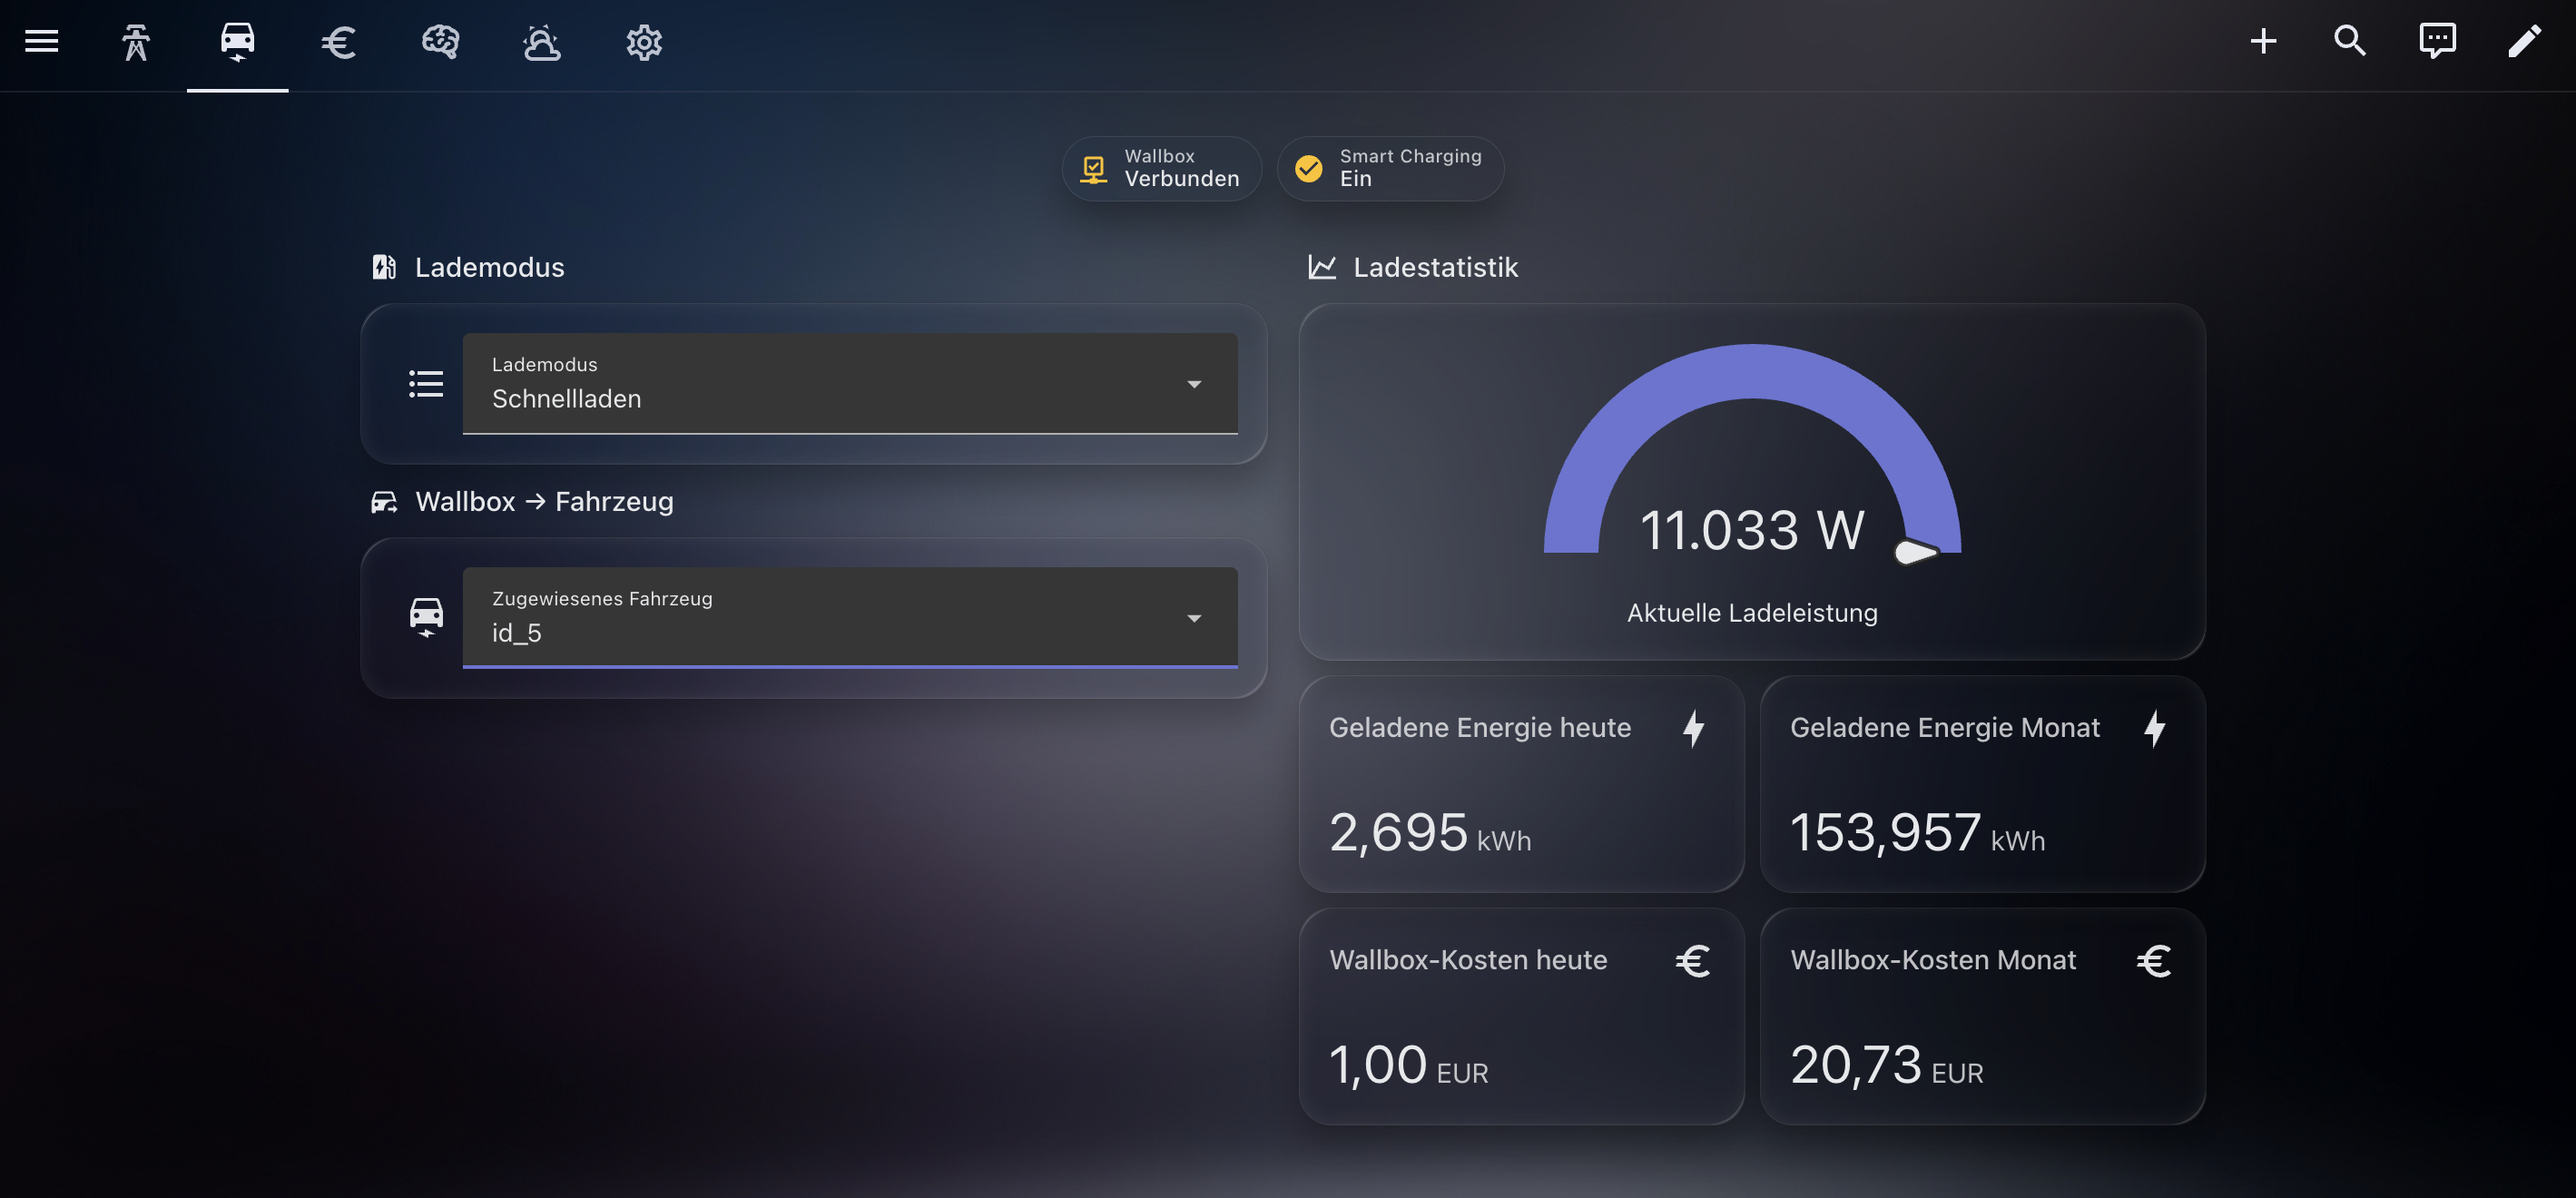
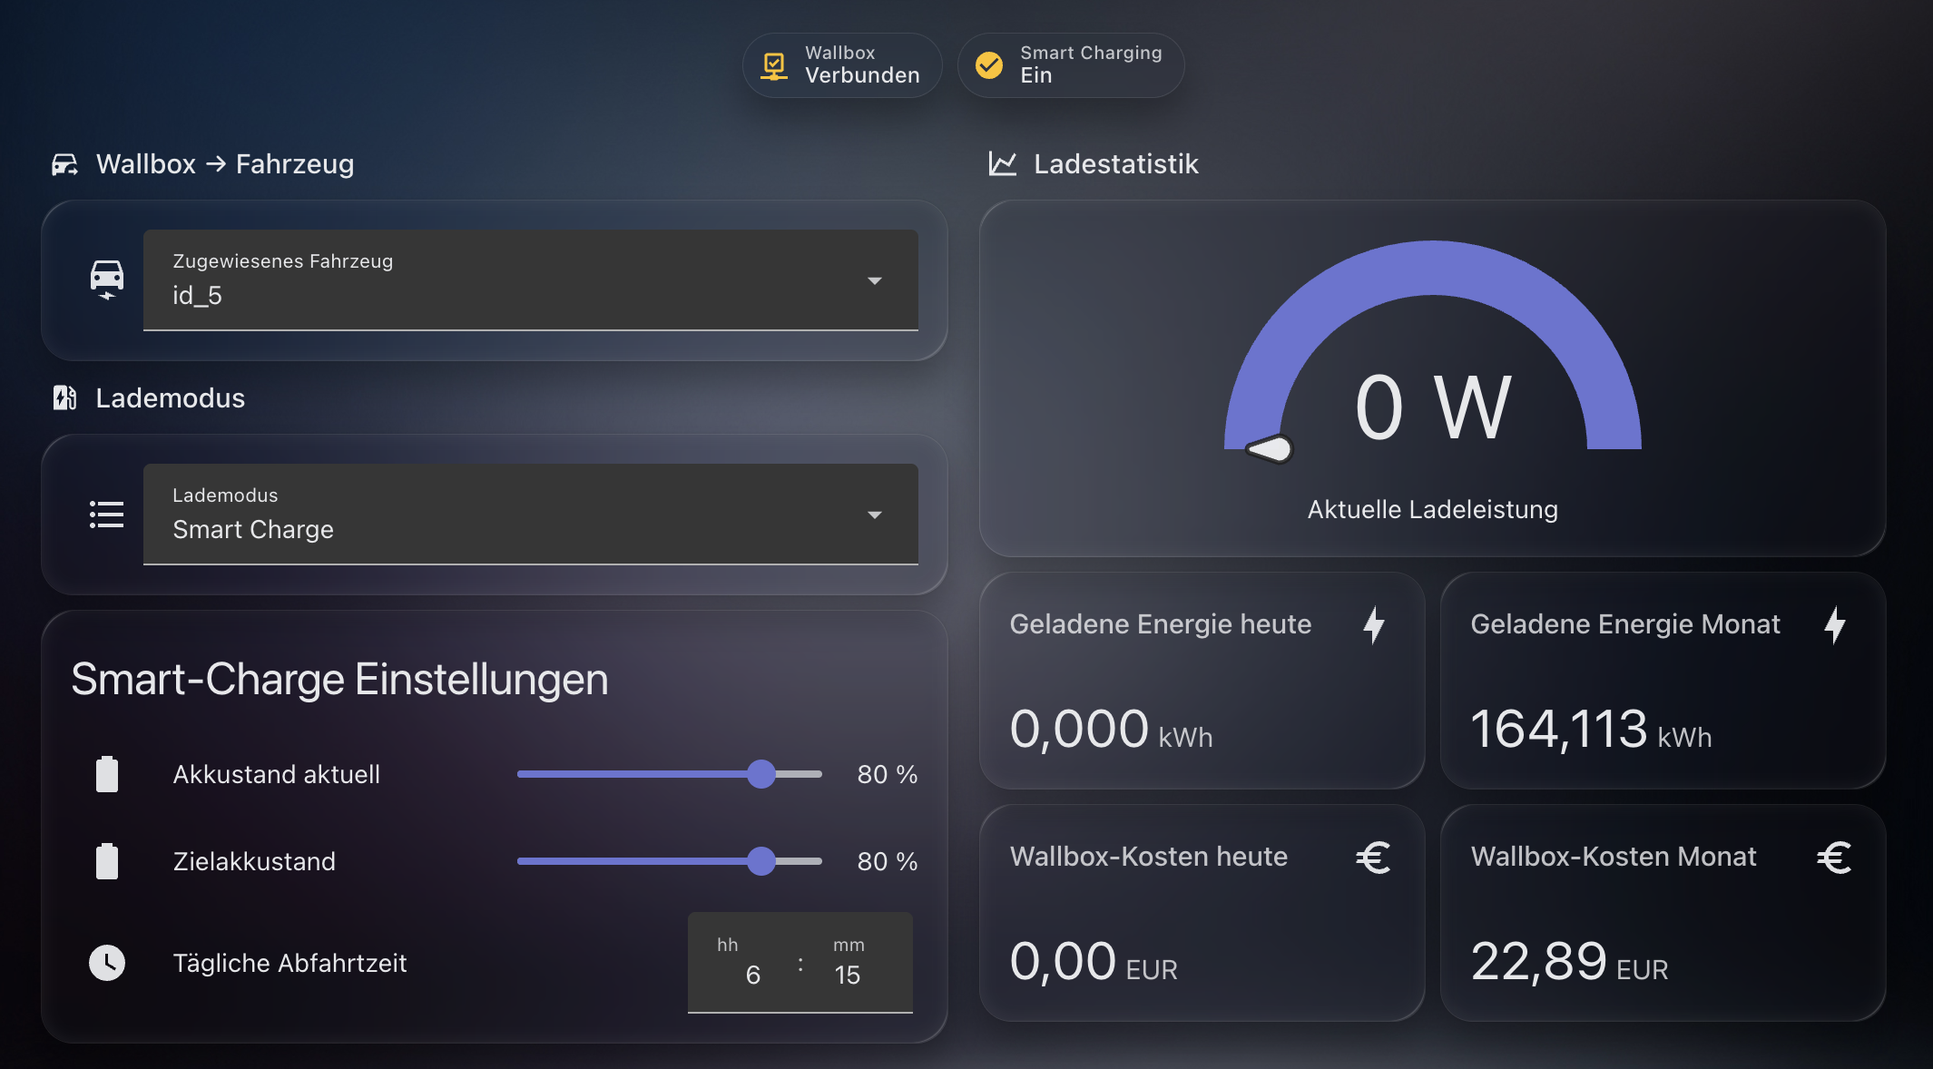
docs(dashboard): abstract vehicle view for multi-EV assignments
Der Fahrzeug-View im Repo-Dashboard und in der Showcase-Variante folgt
jetzt der Live-Struktur mit gestapeltem Wallbox-Assignment → Lademodus
→ Smart-Charge-Einstellungen. Vorher-Bug: die Smart-Charge-Card zeigte
auf `sensor.…_lademodus` (State uppercase `SMART_CHARGE`); der State-
Vergleich `smart_charge` (lowercase) traf nie. Neu: auf den Steuer-
Selector `select.…_lademodus` (lowercase) mit korrektem State.

Multi-EV: zwei Conditional-Card-Blöcke (Lademodus + Smart-Charge-
Einstellungen) pro EV. Placeholder:
- `WALLBOX` (Wallbox-Sub-Device-Slug: `wallbox` single, sonst Name-Slug)
- `EV_N_PREFIX` (Entity-Prefix des EV, z. B. `volkswagen_id_4`)
- `EV_N_SLUG` (Slug im Assignment-Selektor, aus `attributes.options`)

README-Tabelle aktualisiert; der Vehicle-Section-Absatz erklärt die
Verdopplung und wie man EV-Prefixe/-Slugs abliest. Der veraltete
`CAR_IDENTIFIER`-Placeholder entfällt.

Screenshot showcase-fahrzeug.png aktualisiert: zeigt die neue Struktur
mit Assignment-Select, Lademodus und Smart-Charge-Einstellungen.

diff --git a/dashboard/README.md b/dashboard/README.md
@@ -58,9 +58,11 @@ The view header shows four **badges**: EMS auto mode switch, self-sufficiency ra
 
 A focused view for controlling the EV charger:
 
-- Charging mode selector (Smart Charge / Quick Charge / Solar Charge)
-- Wallbox → vehicle assignment (since v0.1.63): which vehicle profile is currently bound to the wallbox. Options are the site's vehicles as lowercase name slugs. Placeholder `WALLBOX_IDENTIFIER` in the YAML resolves to `wallbox` on single-wallbox sites (the historical default) and to each wallbox's own slug on multi-wallbox sites — check *Settings → Devices & Services → 1KOMMA5°* on your install for the exact `select.SYSTEM_NAME_<wallbox>_assigned_vehicle` id.
-- Manual battery level input, target battery level and daily departure time (visible in Smart Charge mode only)
+- **Wallbox → vehicle assignment** (since v0.1.63) at the top of the section: which vehicle profile is currently bound to the wallbox. Options are the site's vehicles as lowercase name slugs. Placeholder `WALLBOX` in the YAML resolves to `wallbox` on single-wallbox sites (the historical default) and to each wallbox's own slug on multi-wallbox sites — check *Settings → Devices & Services → 1KOMMA5°* on your install for the exact `select.SYSTEM_NAME_<wallbox>_assigned_vehicle` id.
+- **Charging-mode selector** (Smart Charge / Quick Charge / Solar Charge) — one selector per EV, but only the one for the currently-assigned vehicle is shown. Conditional cards use the assignment selector's state to swap between EVs.
+- **Manual battery level, target battery level and daily departure time** — visible in Smart Charge mode only, again scoped to the currently-assigned vehicle.
+
+Duplicate the two conditional blocks (Lademodus + Smart-Charge-Einstellungen) once per vehicle, replacing `EV_N_PREFIX` with the vehicle's entity prefix (e.g. `volkswagen_id_4`, or the long `<owner>_<uuid>` slug for backend-only test profiles) and `EV_N_SLUG` with the option value that appears in the assignment selector's `attributes.options` list.
 
 ### Prices and costs
 
@@ -103,12 +105,16 @@ In every existing view the Showcase adds badges (e.g. AI status, cheap-now indic
 1. In Home Assistant go to **Settings → Dashboards → Add Dashboard** (or open an existing one in edit mode).
 2. Click the ⋮ menu → **Edit Dashboard** → **Raw configuration editor**.
 3. Paste the contents of [`dashboard.yaml`](dashboard.yaml) or [`dashboard-showcase.yaml`](dashboard-showcase.yaml).
-4. Replace the two placeholders throughout the YAML:
+4. Replace the placeholders throughout the YAML:
 
    | Placeholder | Replace with | Where to find it |
    |-------------|-------------|-----------------|
    | `SYSTEM_NAME` | Your system name prefix | **Settings → Devices & Services → 1KOMMA5°**, visible on any entity ID |
-   | `CAR_IDENTIFIER` | Your EV entity prefix | Same location, visible on EV charger entities (e.g. `volkswagen_id_4`) |
+   | `WALLBOX` | The wallbox sub-device slug | `wallbox` on single-wallbox sites; the wallbox-name slug on multi-wallbox sites (visible in `select.SYSTEM_NAME_<wallbox>_assigned_vehicle`) |
+   | `EV_1_PREFIX`, `EV_2_PREFIX`, … | Entity prefix per EV | Visible on the EV's own entities (`volkswagen_id_4`, or the long `<owner>_<uuid>` for backend test profiles) |
+   | `EV_1_SLUG`, `EV_2_SLUG`, … | Slug per EV in the assignment selector | Read `attributes.options` on `select.SYSTEM_NAME_<wallbox>_assigned_vehicle` (e.g. `id_5`, `dummy`) |
+
+   Duplicate the two conditional blocks (Lademodus + Smart-Charge-Einstellungen) once per EV. Sites with a single EV need only the `EV_1_*` block.
 
    If your 1KOMMA5° device is assigned to a Home Assistant *area*, HA may prefix new entity_ids with the area slug (e.g. `garage_SYSTEM_NAME_…`). Use whatever your install actually generates: Settings → Devices & Services → 1KOMMA5° → click an entity to see its ID.
 
